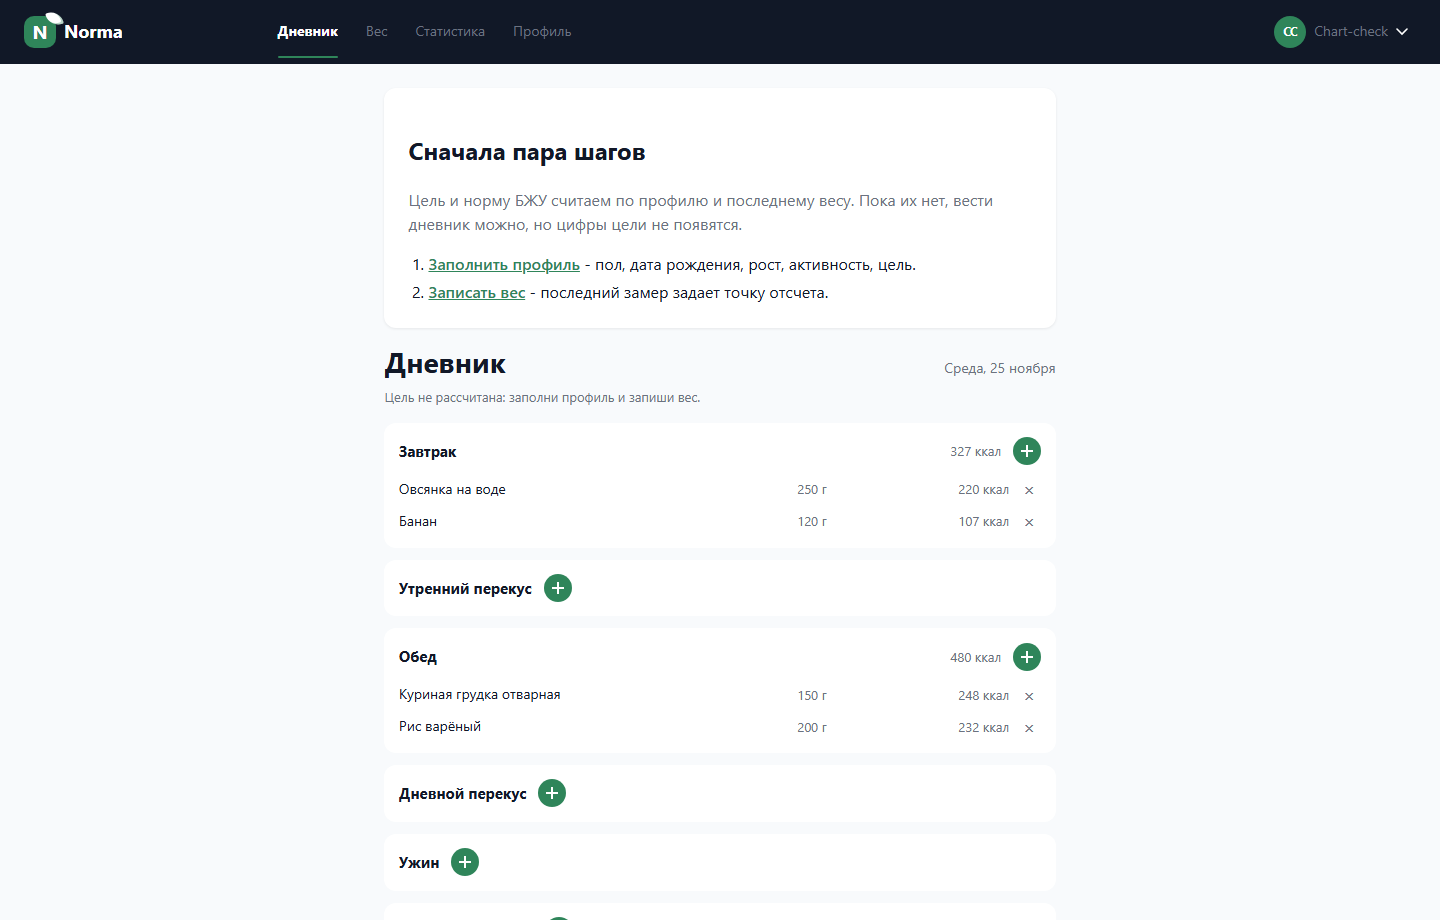
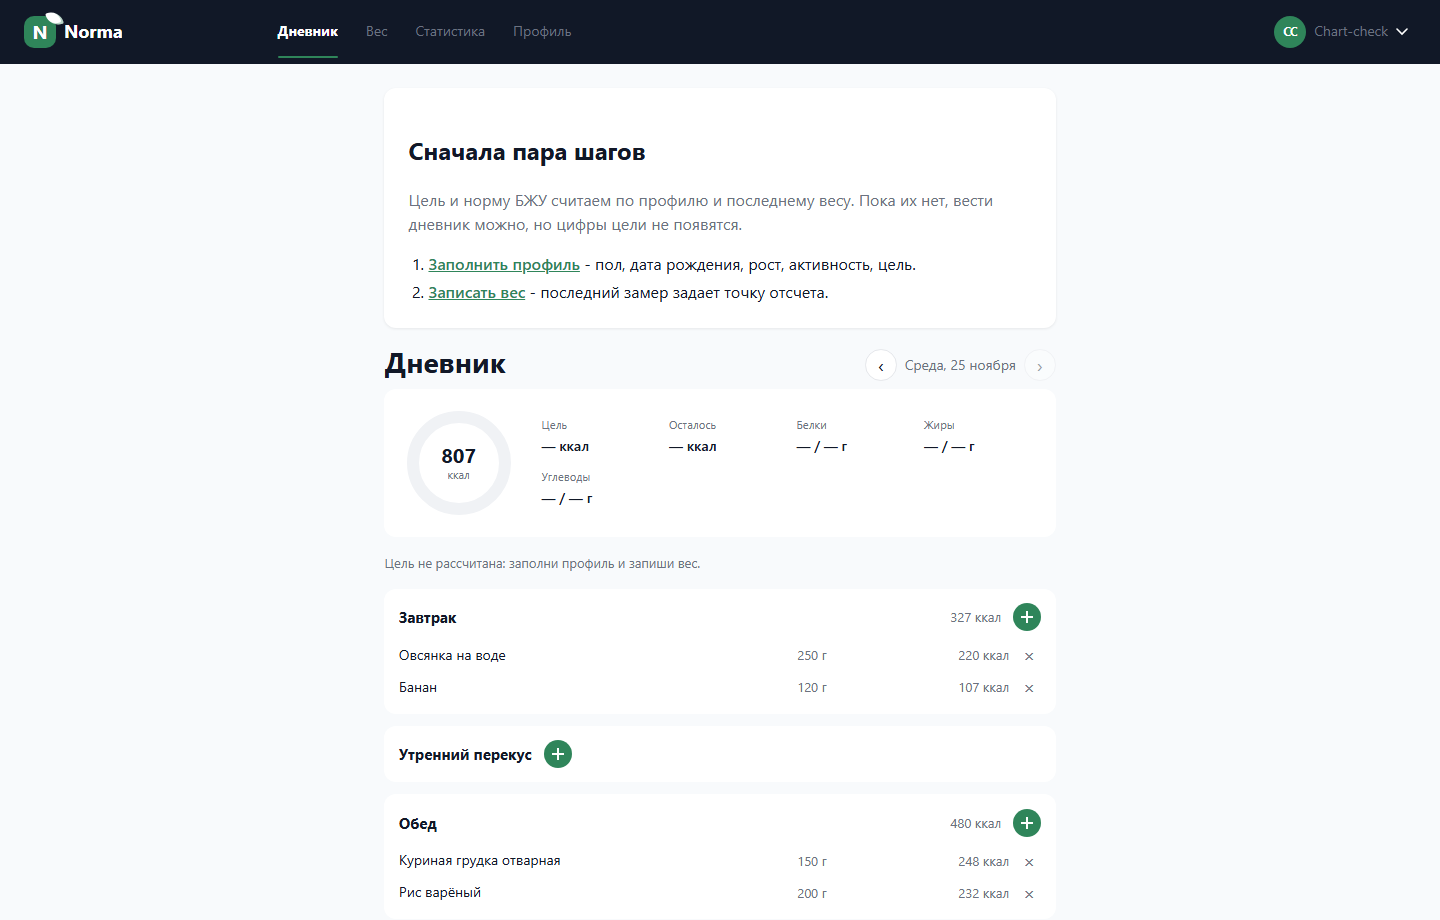
feat(web): стрелки по датам и кольцо КБЖУ в дневнике
Стрелки ходят по прошлым дням и грузят их рацион, следующий день недоступен после сегодня, есть кнопка «сегодня». Под заголовком появилась карточка с кольцом съеденного и ячейками цели, остатка и БЖУ. Добавление позиции пишется в выбранную дату.

diff --git a/web/src/app/pages/diary/diary.page.ts b/web/src/app/pages/diary/diary.page.ts
@@ -1,17 +1,22 @@
 import { HttpErrorResponse } from '@angular/common/http';
-import { Component, OnInit, inject, signal } from '@angular/core';
+import { Component, OnInit, computed, inject, signal } from '@angular/core';
 import { RouterLink } from '@angular/router';
 import { DiaryDay, MealKind, Plan, mealTitles } from '../../core/api.models';
+import { toLocalIso } from '../../core/date';
 import { describeProblem } from '../../core/problem';
 import { AddEntryComponent } from './add-entry.component';
 import { DiaryService } from './diary.service';
 
+interface RingSegment {
+  color: string;
+  dash: string;
+  offset: number;
+}
+
 /**
- * Экран дня: итоги за день и приемы пищи карточками. Прием раскрывается
- * кликом: внутри его позиции и форма добавления.
- *
- * День и цель грузятся независимо: без профиля и веса цель не посчитать, но
- * дневник должен открываться.
+ * Экран дня: кольцо КБЖУ, шесть приемов и стрелки по датам. День и цель
+ * грузятся независимо: без профиля и веса цель не посчитать, но дневник
+ * должен открываться.
  */
 @Component({
   selector: 'app-diary-page',
@@ -30,9 +35,67 @@ export class DiaryPage implements OnInit {
   protected readonly openMeal = signal<MealKind | null>(null);
   protected readonly titles = mealTitles;
 
-  protected readonly today = new Date();
-  protected readonly dateIso = this.today.toISOString().slice(0, 10);
-  protected readonly dateLabel = this.formatDateLabel(this.today);
+  /** Выбранная дата: по умолчанию сегодня, стрелки ходят в прошлое. */
+  protected readonly selected = signal<Date>(this.startOfToday());
+  protected readonly dateIso = computed(() => toLocalIso(this.selected()));
+  protected readonly dateLabel = computed(() => this.formatDateLabel(this.selected()));
+  protected readonly isToday = computed(() => this.dateIso() === toLocalIso(this.startOfToday()));
+
+  private readonly ringRadius = 46;
+  private readonly ringLength = 2 * Math.PI * 46;
+
+  protected readonly eaten = computed(() => this.day()?.totals.kcal ?? 0);
+
+  protected readonly remainingKcal = computed(() => {
+    const target = this.plan()?.targetKcal;
+
+    return target === null || target === undefined ? null : Math.round(target - this.eaten());
+  });
+
+  protected readonly remainingMacros = computed(() => {
+    const macros = this.plan()?.macros;
+    const totals = this.day()?.totals;
+
+    if (!macros || !totals) {
+      return null;
+    }
+
+    return {
+      protein: Math.max(0, Math.round(macros.proteinG - totals.protein)),
+      fat: Math.max(0, Math.round(macros.fatG - totals.fat)),
+      carbs: Math.max(0, Math.round(macros.carbsG - totals.carbs)),
+    };
+  });
+
+  protected readonly ringSegments = computed<RingSegment[]>(() => {
+    const macros = this.plan()?.macros;
+    const totals = this.day()?.totals;
+
+    if (!macros || !totals) {
+      return [];
+    }
+
+    const shares = [
+      { color: 'var(--color-protein)', value: this.share(totals.protein, macros.proteinG) },
+      { color: 'var(--color-fat-pastel)', value: this.share(totals.fat, macros.fatG) },
+      { color: 'var(--color-carbs-pastel)', value: this.share(totals.carbs, macros.carbsG) },
+    ];
+
+    let sent = 0;
+
+    return shares.map((share) => {
+      const length = share.value * this.ringLength;
+      const segment = {
+        color: share.color,
+        dash: `${length.toFixed(2)} ${(this.ringLength - length).toFixed(2)}`,
+        offset: -sent,
+      };
+
+      sent += length;
+
+      return segment;
+    });
+  });
 
   ngOnInit(): void {
     this.load();
@@ -41,7 +104,7 @@ export class DiaryPage implements OnInit {
   protected load(): void {
     this.error.set(null);
 
-    this.diary.day(this.dateIso).subscribe({
+    this.diary.day(this.dateIso()).subscribe({
       next: (day) => this.day.set(day),
       error: (error: HttpErrorResponse) => this.error.set(describeProblem(error)),
     });
@@ -68,6 +131,29 @@ export class DiaryPage implements OnInit {
     });
   }
 
+  protected previousDay(): void {
+    const date = new Date(this.selected());
+    date.setDate(date.getDate() - 1);
+    this.selected.set(date);
+    this.load();
+  }
+
+  protected nextDay(): void {
+    if (this.isToday()) {
+      return;
+    }
+
+    const date = new Date(this.selected());
+    date.setDate(date.getDate() + 1);
+    this.selected.set(date);
+    this.load();
+  }
+
+  protected today(): void {
+    this.selected.set(this.startOfToday());
+    this.load();
+  }
+
   protected toggle(kind: MealKind): void {
     this.openMeal.set(this.openMeal() === kind ? null : kind);
   }
@@ -83,6 +169,10 @@ export class DiaryPage implements OnInit {
     return unit === 'Milliliter' ? 'мл' : 'г';
   }
 
+  protected formatNumber(value: number | null | undefined): string {
+    return value === null || value === undefined ? '—' : value.toLocaleString('ru-RU');
+  }
+
   /** «Среда, 25 ноября»: день недели в макете с большой буквы. */
   private formatDateLabel(date: Date): string {
     const weekday = date.toLocaleDateString('ru-RU', { weekday: 'long' });
@@ -91,14 +181,17 @@ export class DiaryPage implements OnInit {
     return `${weekday.charAt(0).toUpperCase()}${weekday.slice(1)}, ${rest}`;
   }
 
-  protected progressPercent(): number {
-    const target = this.plan()?.targetKcal;
-    const eaten = this.day()?.totals.kcal ?? 0;
+  private startOfToday(): Date {
+    const now = new Date();
 
-    if (!target || target <= 0) {
+    return new Date(now.getFullYear(), now.getMonth(), now.getDate());
+  }
+
+  private share(value: number, target: number): number {
+    if (target <= 0) {
       return 0;
     }
 
-    return Math.min(100, Math.round((eaten / target) * 100));
+    return Math.min(1, value / target);
   }
 }

diff --git a/web/src/app/pages/diary/diary.page.html b/web/src/app/pages/diary/diary.page.html
@@ -18,15 +18,81 @@
 
 <header class="day-head">
   <h1>Дневник</h1>
-  <span class="day-date">{{ dateLabel }}</span>
+
+  <div class="day-nav">
+    <button type="button" class="day-arrow" aria-label="Предыдущий день" (click)="previousDay()">‹</button>
+    <span class="day-date">{{ dateLabel() }}</span>
+    <button
+      type="button"
+      class="day-arrow"
+      aria-label="Следующий день"
+      [disabled]="isToday()"
+      (click)="nextDay()"
+    >
+      ›
+    </button>
+
+    @if (!isToday()) {
+      <button type="button" class="day-today" (click)="today()">сегодня</button>
+    }
+  </div>
 </header>
 
-@if (plan(); as planValue) {
-  <p class="day-plan">
-    Цель {{ planValue.targetKcal }} ккал · съедено {{ day()?.totals?.kcal ?? 0 }} ккал ·
-    осталось {{ planValue.targetKcal - (day()?.totals?.kcal ?? 0) }} ккал
-  </p>
-} @else if (planError(); as message) {
+<section class="nutrition">
+  <div class="ring">
+    <svg viewBox="0 0 108 108" aria-hidden="true">
+      <circle class="ring-track" cx="54" cy="54" [attr.r]="46" />
+      @for (segment of ringSegments(); track segment.color) {
+        <circle
+          class="ring-segment"
+          cx="54"
+          cy="54"
+          [attr.r]="46"
+          [attr.stroke]="segment.color"
+          [attr.stroke-dasharray]="segment.dash"
+          [attr.stroke-dashoffset]="segment.offset"
+          transform="rotate(-90 54 54)"
+        />
+      }
+    </svg>
+
+    <div class="ring-center">
+      <strong>{{ formatNumber(eaten()) }}</strong>
+      <span>ккал</span>
+    </div>
+  </div>
+
+  <div class="nutrition-cells">
+    <div class="cell">
+      <span class="cell-label">Цель</span>
+      <span class="cell-value">{{ formatNumber(plan()?.targetKcal) }} ккал</span>
+    </div>
+    <div class="cell">
+      <span class="cell-label">Осталось</span>
+      <span class="cell-value">{{ formatNumber(remainingKcal()) }} ккал</span>
+    </div>
+    <div class="cell">
+      <span class="cell-label">Белки</span>
+      <span class="cell-value">
+        {{ formatNumber(remainingMacros()?.protein) }} / {{ formatNumber(plan()?.macros?.proteinG) }} г
+      </span>
+    </div>
+    <div class="cell">
+      <span class="cell-label">Жиры</span>
+      <span class="cell-value">
+        {{ formatNumber(remainingMacros()?.fat) }} / {{ formatNumber(plan()?.macros?.fatG) }} г
+      </span>
+    </div>
+    <div class="cell">
+      <span class="cell-label">Углеводы</span>
+      <span class="cell-value">
+        {{ formatNumber(remainingMacros()?.carbs) }} / {{ formatNumber(plan()?.macros?.carbsG) }} г
+      </span>
+    </div>
+  </div>
+</section>
+
+@if (!plan() && planError(); as message) {
   <p class="day-plan muted">{{ message }}</p>
 }
 
@@ -69,7 +135,7 @@
 
       @if (openMeal() === meal.kind) {
         <div class="meal-form">
-          <app-add-entry [date]="dateIso" [meal]="meal.kind" (added)="load()" />
+          <app-add-entry [date]="dateIso()" [meal]="meal.kind" (added)="load()" />
         </div>
       }
     </section>

diff --git a/web/src/app/pages/diary/diary.page.scss b/web/src/app/pages/diary/diary.page.scss
@@ -19,6 +19,125 @@
   color: var(--color-text-muted);
 }
 
+/* Стрелки по датам: показывают прошлые дни с их рационом. */
+.day-nav {
+  display: flex;
+  align-items: center;
+  gap: var(--space-8);
+}
+
+.day-arrow {
+  width: clamp(28px, 2.2vw, 34px);
+  height: clamp(28px, 2.2vw, 34px);
+  padding: 0;
+  border: 1px solid var(--color-border);
+  border-radius: 50%;
+  background: var(--color-surface);
+  color: var(--color-text);
+  font-size: clamp(16px, 1.4vw, 20px);
+  line-height: 1;
+
+  &:hover:not(:disabled) {
+    background: var(--color-track);
+  }
+
+  &:disabled {
+    opacity: 0.4;
+    cursor: default;
+  }
+}
+
+.day-today {
+  padding: 0 var(--space-8);
+  height: clamp(28px, 2.2vw, 34px);
+  border: none;
+  background: none;
+  color: var(--color-accent);
+  font-size: clamp(11px, 0.83vw, 14px);
+  text-decoration: underline;
+}
+
+/* Кольцо КБЖУ над приемами: как на главной, но компактнее. */
+.nutrition {
+  display: flex;
+  align-items: center;
+  gap: clamp(var(--space-16), 2vw, var(--space-32));
+  background: var(--color-surface);
+  border-radius: var(--radius-card);
+  padding: clamp(var(--space-16), 1.4vw, var(--space-24));
+  margin-bottom: var(--space-16);
+}
+
+.ring {
+  position: relative;
+  width: clamp(88px, 7.5vw, 112px);
+  height: clamp(88px, 7.5vw, 112px);
+  flex: 0 0 auto;
+}
+
+.ring svg {
+  width: 100%;
+  height: 100%;
+  display: block;
+}
+
+.ring-track {
+  fill: none;
+  stroke: var(--color-track);
+  stroke-width: 12;
+}
+
+.ring-segment {
+  fill: none;
+  stroke-width: 12;
+}
+
+.ring-center {
+  position: absolute;
+  inset: 0;
+  display: flex;
+  flex-direction: column;
+  align-items: center;
+  justify-content: center;
+
+  strong {
+    font-size: clamp(16px, 1.4vw, 24px);
+    line-height: 1.2;
+    color: var(--color-text);
+  }
+
+  span {
+    font-size: clamp(10px, 0.76vw, 13px);
+    color: var(--color-text-muted);
+  }
+}
+
+.nutrition-cells {
+  display: grid;
+  grid-template-columns: repeat(3, minmax(0, 1fr));
+  gap: var(--space-12) var(--space-16);
+  flex: 1;
+  min-width: 0;
+}
+
+.cell {
+  display: flex;
+  flex-direction: column;
+  gap: 2px;
+}
+
+.cell-label {
+  font-size: clamp(10px, 0.78vw, 13px);
+  color: var(--color-text-muted);
+}
+
+.cell-value {
+  font-size: clamp(12px, 0.97vw, 16px);
+  font-weight: 600;
+  color: var(--color-text);
+  white-space: nowrap;
+}
+
 /* Сводка дня: в макете ее нет, но цель и остаток нужны - оставила одной строкой. */
 .day-plan {
   margin: 0 0 var(--space-16);
